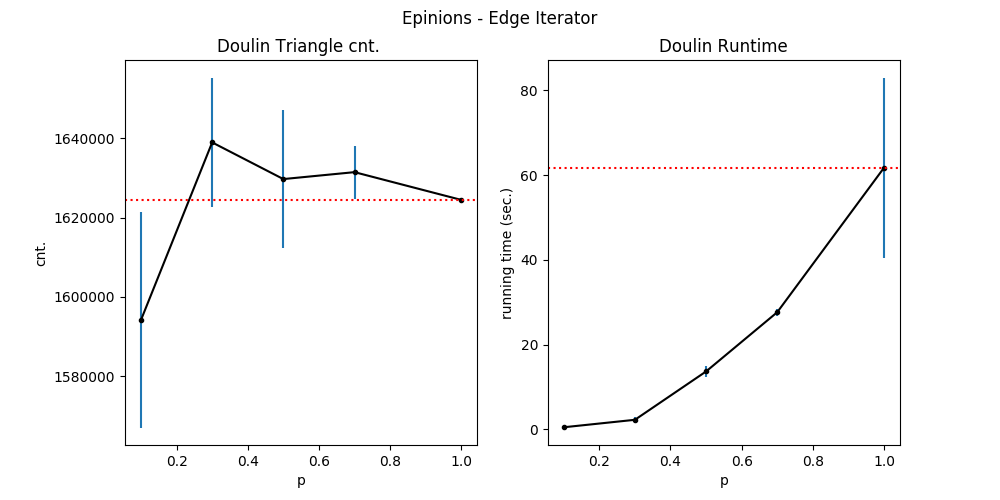
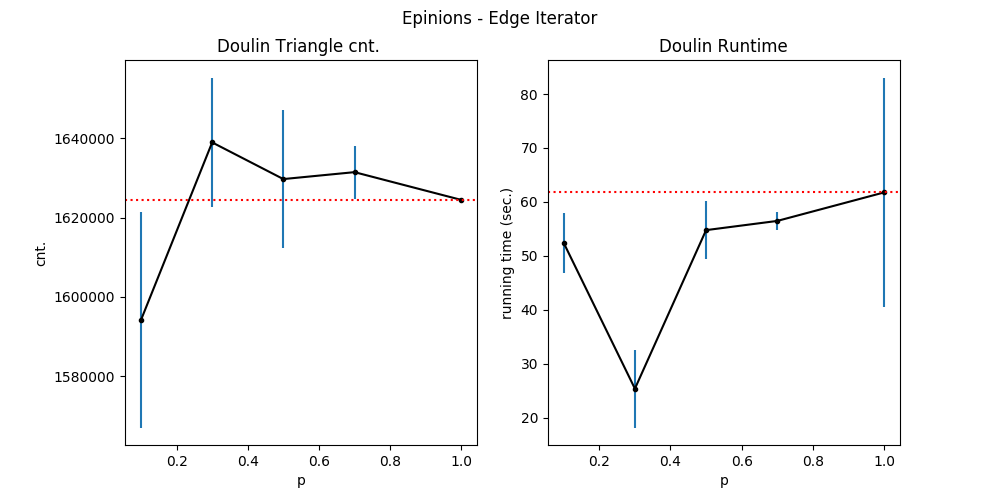
fix parse_results.py est. error bar speedup calculation (/p^2)

diff --git a/parse_results.py b/parse_results.py
@@ -86,14 +86,14 @@ def main():
 
 		res = []
 		for p in [0.1, 0.3, 0.5, 0.7, 1.0]:
-			res.append((p, np.mean(p_count_dict[p]), np.mean(p_time_dict[p])))
+			res.append((p, np.mean(p_count_dict[p]), np.mean(p_time_dict[p]))) #
 		accuracy_speedup_dots(res, (res[-1][1], res[-1][2]), dataset+alg+"acc_speed_res.png", alg_name, data_name)
 		analysis(res, (res[-1][1], res[-1][2]), dataset+alg+"analysis_est_vs_sim.png", alg_name, data_name)
 
 		# For if we want error bars / something with std
 		res=[]
 		for p in [0.1, 0.3, 0.5, 0.7, 1.0]:
-			res.append((p, np.mean(p_count_dict[p])/(p**3), np.std(p_count_dict[p])/(p**3), np.mean(p_time_dict[p]), np.std(p_time_dict[p])))
+			res.append((p, np.mean(p_count_dict[p])/(p**3), np.std(p_count_dict[p])/(p**3), np.mean(p_time_dict[p])/(p**2), np.std(p_time_dict[p])/(p**2)))
 
 		analysis_with_errorbars(res, (res[-1][1], res[-1][3]), dataset+alg+"result_with_errorbars.png", alg_name, data_name)
 
